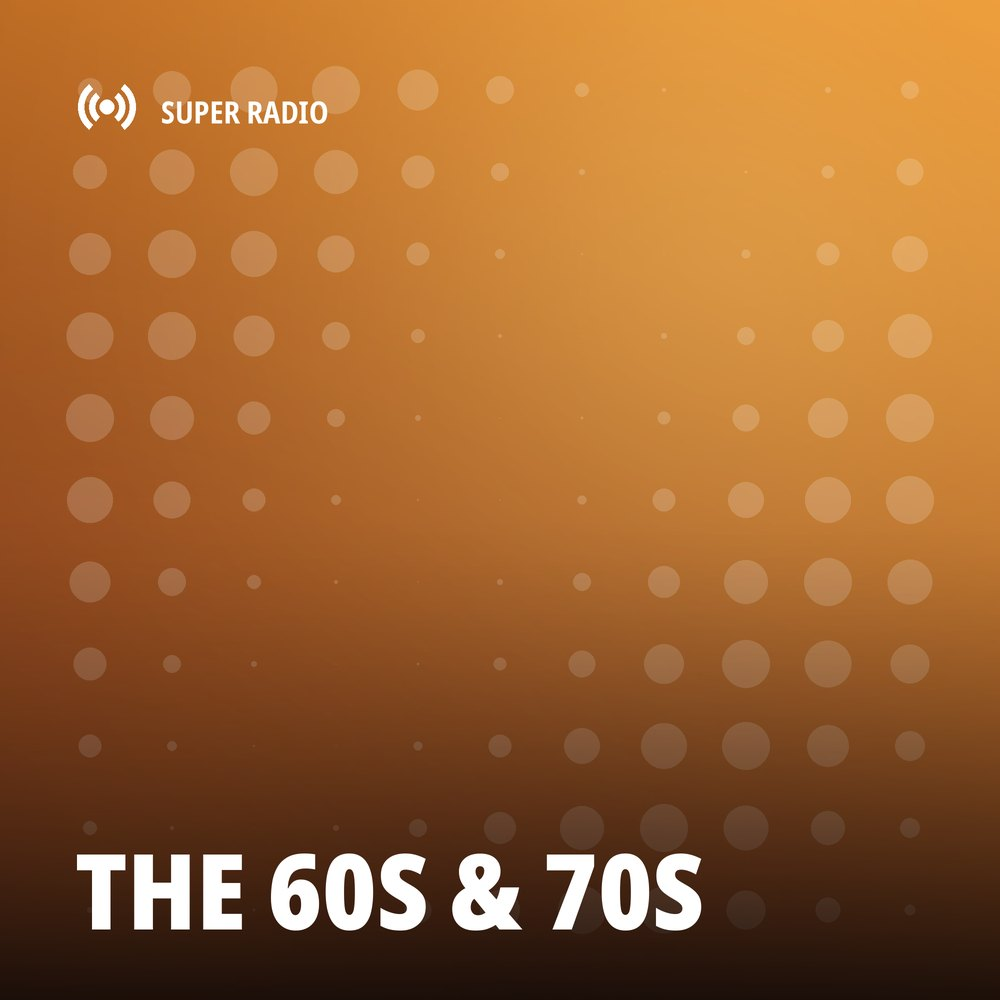
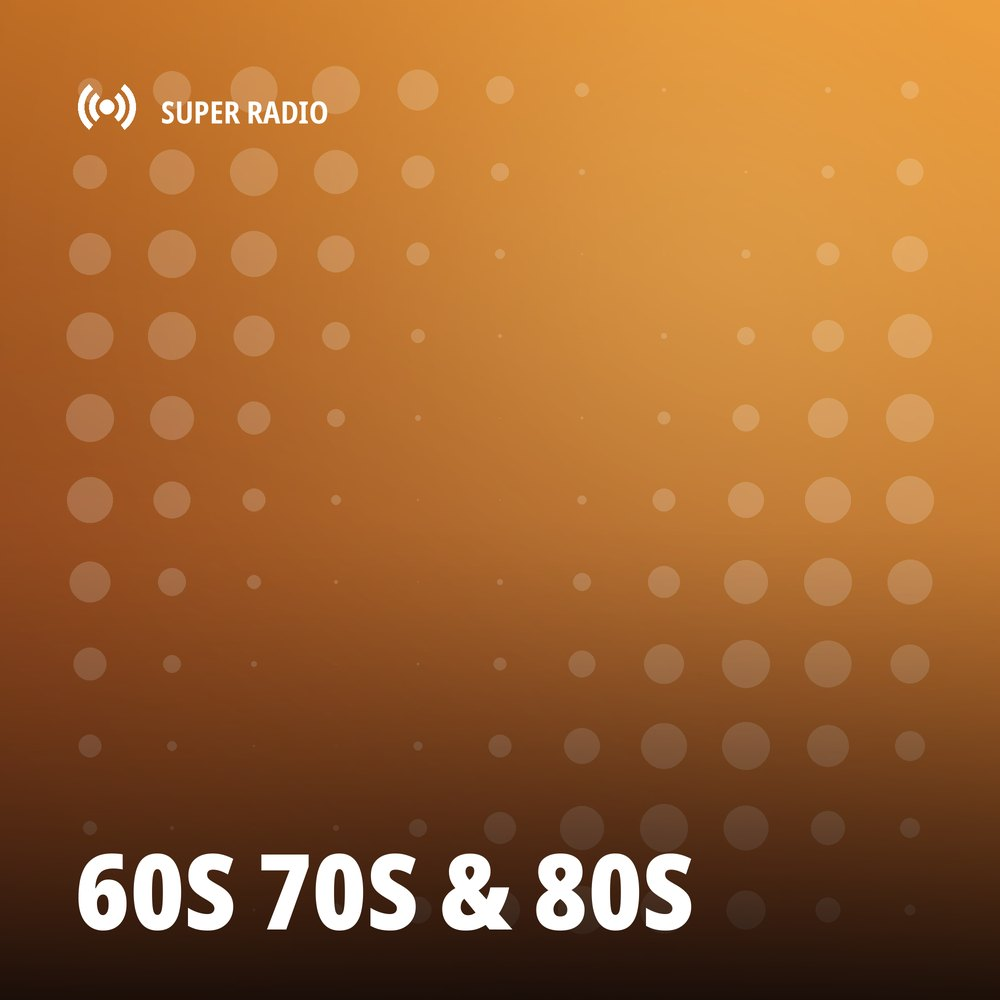
Hoezen: rooster als terugval, vijf programma's toegevoegd
Zenderblokken kregen de standaardhoes omdat de programmanaam niet in de
trackgegevens staat. laut.fm geeft dan artiest "Super - Radio" en als titel
een opsomming van artiesten; de naam staat alleen in /schedule.

- getArtwork() valt nu terug op showImageAt(), die in het rooster opzoekt
  welk programma er op dat moment liep. Recente tracks gebruiken hun eigen
  starttijd, dus ook die krijgen het juiste programma.
- Een artiestveld dat zelf een programmanaam is ("Rock Classics +") wordt
  als zenderblok herkend, zonder ze los in STATION_ALIASES te zetten.
- SHOW_IMAGES afgestemd op de werkelijke namen uit /schedule; alle twintig
  roosternamen matchen nu op een bestaande hoes.

Nieuwe en aangepaste hoezen:
- cover-retro.jpg  nu "60s 70s & 80s" (was 60s & 70s, terwijl het programma
                   "60's 70's And 80's" heet en 14 slots vult)
- cover-6070.jpg   nieuw, voor "The Best Of The 60s & 70s"
- cover-00s.jpg    nieuw, voor "The 00s"
- cover-10s.jpg    nieuw, voor "10s"
- cover-rock.jpg   nieuw, voor "Rock Classics"

Changed region(s): [[0.062, 0.837, 0.713, 0.93]]

diff --git a/js/api.js b/js/api.js
@@ -202,6 +202,25 @@ export function showImage(...names) {
     return null;
 }
 
+/**
+ * Het hoesje van het programma dat op een bepaald moment uitzendt.
+ *
+ * Nodig omdat laut.fm bij een zenderblok de programmanaam nergens in de
+ * trackgegevens zet: `current_song` geeft dan artiest "Super - Radio" en als
+ * titel een opsomming van artiesten. De naam staat alleen in het rooster.
+ *
+ * @param {Date} [when] moment om op te zoeken; standaard nu
+ */
+export async function showImageAt(when = new Date()) {
+    try {
+        const schedule = await getSchedule();
+        const show = schedule.find((entry) => isShowLive(entry, when));
+        return show ? showImage(show.name) : null;
+    } catch {
+        return null;
+    }
+}
+
 /* =================================================================== artwork */
 
 /** In-memory + sessionStorage cache, zodat een herlaadbeurt niets opnieuw zoekt. */
@@ -234,14 +253,25 @@ function persistArtworkCache() {
  *
  * @returns {Promise<string|null>} URL van het hoesje, of null
  */
-export async function getArtwork(title, artist) {
+export async function getArtwork(title, artist, when) {
     if (!title || !artist) return null;
 
-    // Zenderjingles en programma's: eigen hoesje, nooit een externe zoekopdracht.
-    if (isStationTrack(artist) || isStationTrack(title)) {
-        // Titel en artiest allebei aanbieden: laut.fm zet bij deze blokken de
-        // programmanaam nu eens in het ene veld en dan weer in het andere.
-        return showImage(title, artist);
+    // Een artiestveld dat zelf een programmanaam is, is geen artiest maar een
+    // zenderblok: "Rock Classics +", "de jaren 80 +". Door hierop te toetsen
+    // hoeven die niet stuk voor stuk in STATION_ALIASES te staan; wie een
+    // programma aan SHOW_IMAGES toevoegt, krijgt de herkenning er gratis bij.
+    const artistAsShow = showImage(artist);
+
+    if (artistAsShow || isStationTrack(artist) || isStationTrack(title)) {
+        // Staat de programmanaam in de trackgegevens, dan zijn we klaar.
+        const direct = artistAsShow || showImage(title);
+        if (direct) return direct;
+
+        // Meestal staat hij daar niet: laut.fm geeft dan artiest
+        // "Super - Radio" en als titel een opsomming van artiesten. Dan
+        // bepaalt het rooster welk programma er op dat moment liep. Zonder
+        // deze terugval kreeg elk zenderblok de standaardhoes.
+        return showImageAt(when);
     }
 
     const key = `${artist}|${title}`.toLowerCase();

diff --git a/js/config.js b/js/config.js
@@ -24,26 +24,41 @@ export const ARTWORK_CACHE_MAX = 300;
 export const DEFAULT_COVER = 'images/default-cover.jpg';
 export const STATION_LOGO = 'images/icon-512.png';
 
-/** Eigen hoesjes voor de programma's van de zender. */
+/**
+ * Eigen hoesjes voor de programma's van de zender.
+ *
+ * De sleutels komen uit de werkelijke namen in api.laut.fm/.../schedule.
+ * `showImage()` matcht kleine letters op woordgrenzen en laat bij meerdere
+ * treffers de langste sleutel winnen, dus specifieke namen mogen naast
+ * algemene staan.
+ */
 export const SHOW_IMAGES = {
-    'only the best': 'images/cover-otb.jpg',
-    'soul motown and dance classics': 'images/cover-soul.jpg',
-    'dance classics': 'images/cover-soul.jpg',
-    'soul motown': 'images/cover-soul.jpg',
+    // Decennia
     "60's 70's and 80's": 'images/cover-retro.jpg',
-    'the best of the 60s & 70s': 'images/cover-retro.jpg',
-    'the 60s & 70s': 'images/cover-retro.jpg',
-    'night': 'images/cover-night.jpg',
-    'night shift': 'images/cover-night.jpg',
-    'tophits': 'images/cover-hits.jpg',
-    'top hits': 'images/cover-hits.jpg',
-    'greatest hits': 'images/cover-hits.jpg',
+    'the best of the 60s & 70s': 'images/cover-6070.jpg',
+    'the 80s': 'images/cover-80s.jpg',
+    'hits of the 80s': 'images/cover-80s.jpg',
     'de jaren 80 +': 'images/cover-80s.jpg',
     'de jaren 80': 'images/cover-80s.jpg',
-    'hits of the 80s': 'images/cover-80s.jpg',
-    'love zone': 'images/cover-lovezone.jpg',
-    '90s': 'images/cover-90s.jpg',
     'the 90s': 'images/cover-90s.jpg',
+    '90s': 'images/cover-90s.jpg',
+    'the 00s': 'images/cover-00s.jpg',
+    '00s': 'images/cover-00s.jpg',
+    'the 10s': 'images/cover-10s.jpg',
+    '10s': 'images/cover-10s.jpg',
+
+    // Genres en vaste blokken
+    'soul motown and dance classics': 'images/cover-soul.jpg',
+    'dance classics': 'images/cover-soul.jpg',
+    'rock classics': 'images/cover-rock.jpg',
+    'love zone': 'images/cover-lovezone.jpg',
+    'only the best': 'images/cover-otb.jpg',
+    'greatest hits': 'images/cover-hits.jpg',
+    'tophits': 'images/cover-hits.jpg',
+    'top hits': 'images/cover-hits.jpg',
+    'night shift': 'images/cover-night.jpg',
+    'night': 'images/cover-night.jpg',
+    'no talk - nonstop': 'images/cover-nonstop.jpg',
     'non-stop': 'images/cover-nonstop.jpg',
     'nonstop': 'images/cover-nonstop.jpg'
 };

diff --git a/js/main.js b/js/main.js
@@ -86,7 +86,7 @@ async function refreshNowPlaying() {
     if (track.key === lastTrackKey) return;
     lastTrackKey = track.key;
 
-    track.image = (await getArtwork(track.title, track.artist)) || DEFAULT_COVER;
+    track.image = (await getArtwork(track.title, track.artist, track.startedAt)) || DEFAULT_COVER;
     renderCurrentTrack(track);
 
     // De sfeerlaag in CSS is het vangnet; draait WebGL, dan neemt die het over.
@@ -111,7 +111,7 @@ async function refreshPlaylists() {
 
     const enriched = await Promise.all(tracks.map(async (track) => ({
         ...track,
-        image: (await getArtwork(track.title, track.artist)) || DEFAULT_COVER
+        image: (await getArtwork(track.title, track.artist, track.startedAt)) || DEFAULT_COVER
     })));
 
     renderRecentTracks(enriched);

diff --git a/sw.js b/sw.js
@@ -7,7 +7,7 @@
  *   - stream en API      -> nooit aanraken (live data hoort niet in een cache)
  */
 
-const VERSION = 'v7';
+const VERSION = 'v8';
 const SHELL_CACHE = `super-radio-shell-${VERSION}`;
 const RUNTIME_CACHE = `super-radio-runtime-${VERSION}`;
 const OFFLINE_URL = 'offline.html';
